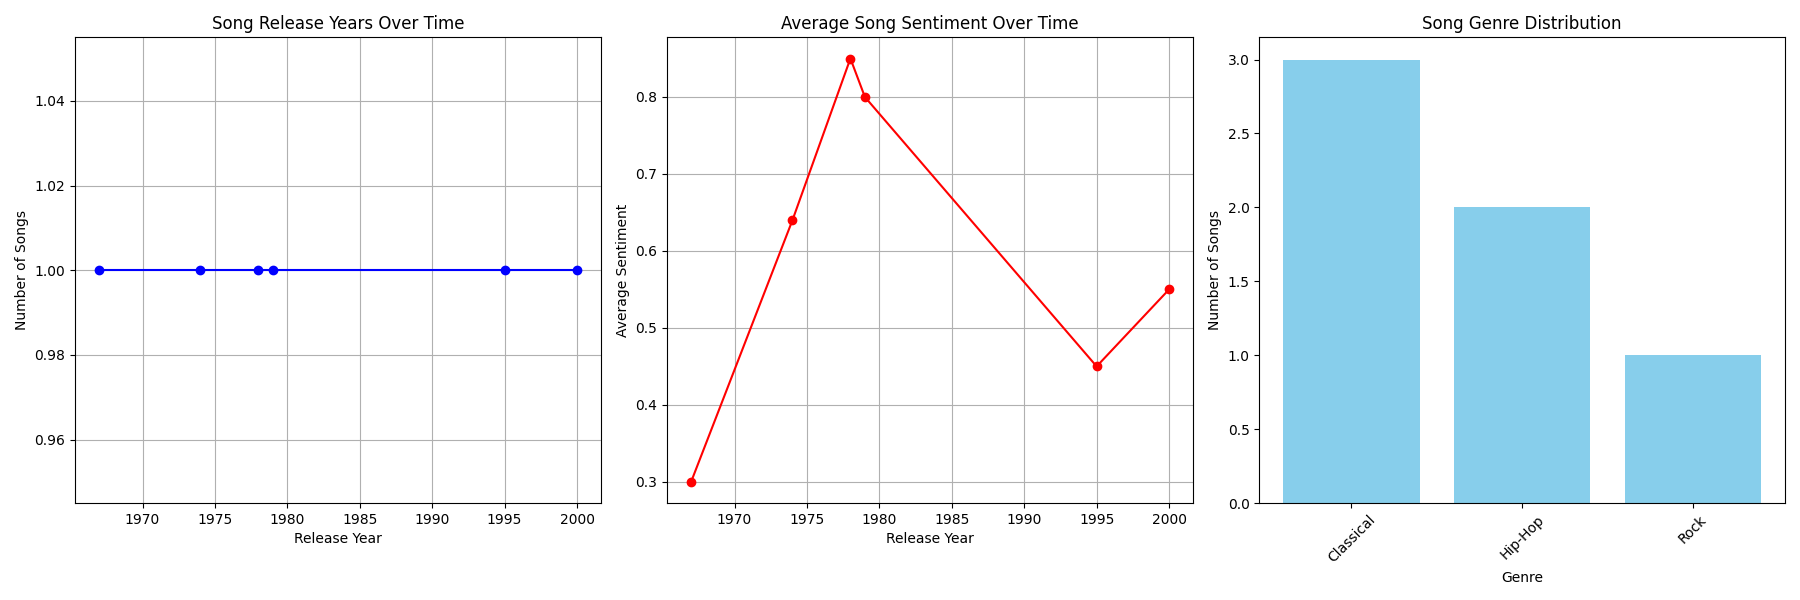
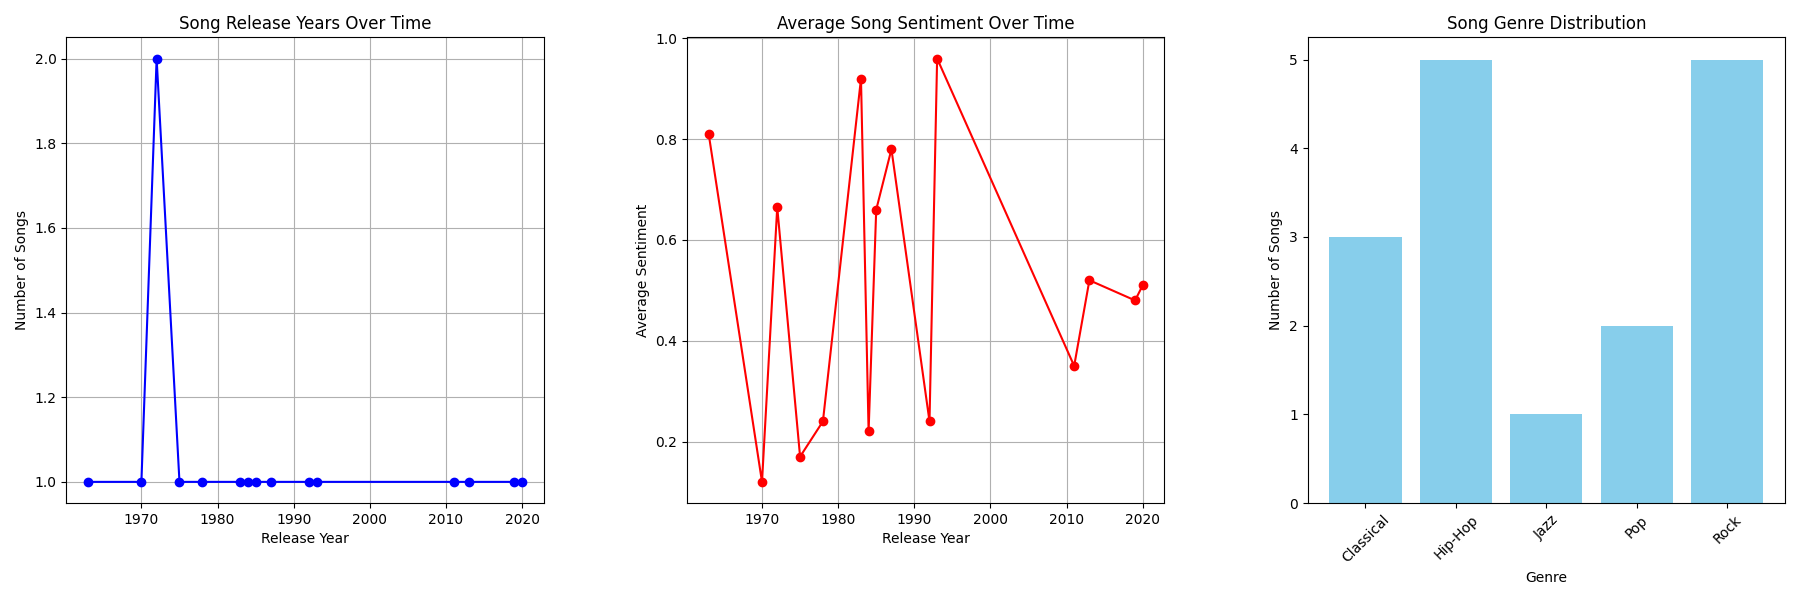
Changed style back from seaborn. Errors found

diff --git a/consumers/kafka_consumer_song_attributes.py b/consumers/kafka_consumer_song_attributes.py
@@ -184,8 +184,6 @@ def generate_combined_graphs(sql_path: pathlib.Path):
     genres = [row[0] for row in genre_data]
     genre_counts = [row[1] for row in genre_data]
 
-    # Set a modern style
-    sns.set_theme(style="whitegrid")
 
     # Create subplots (1 row, 3 columns)
     fig, axes = plt.subplots(1, 3, figsize=(18, 6))
